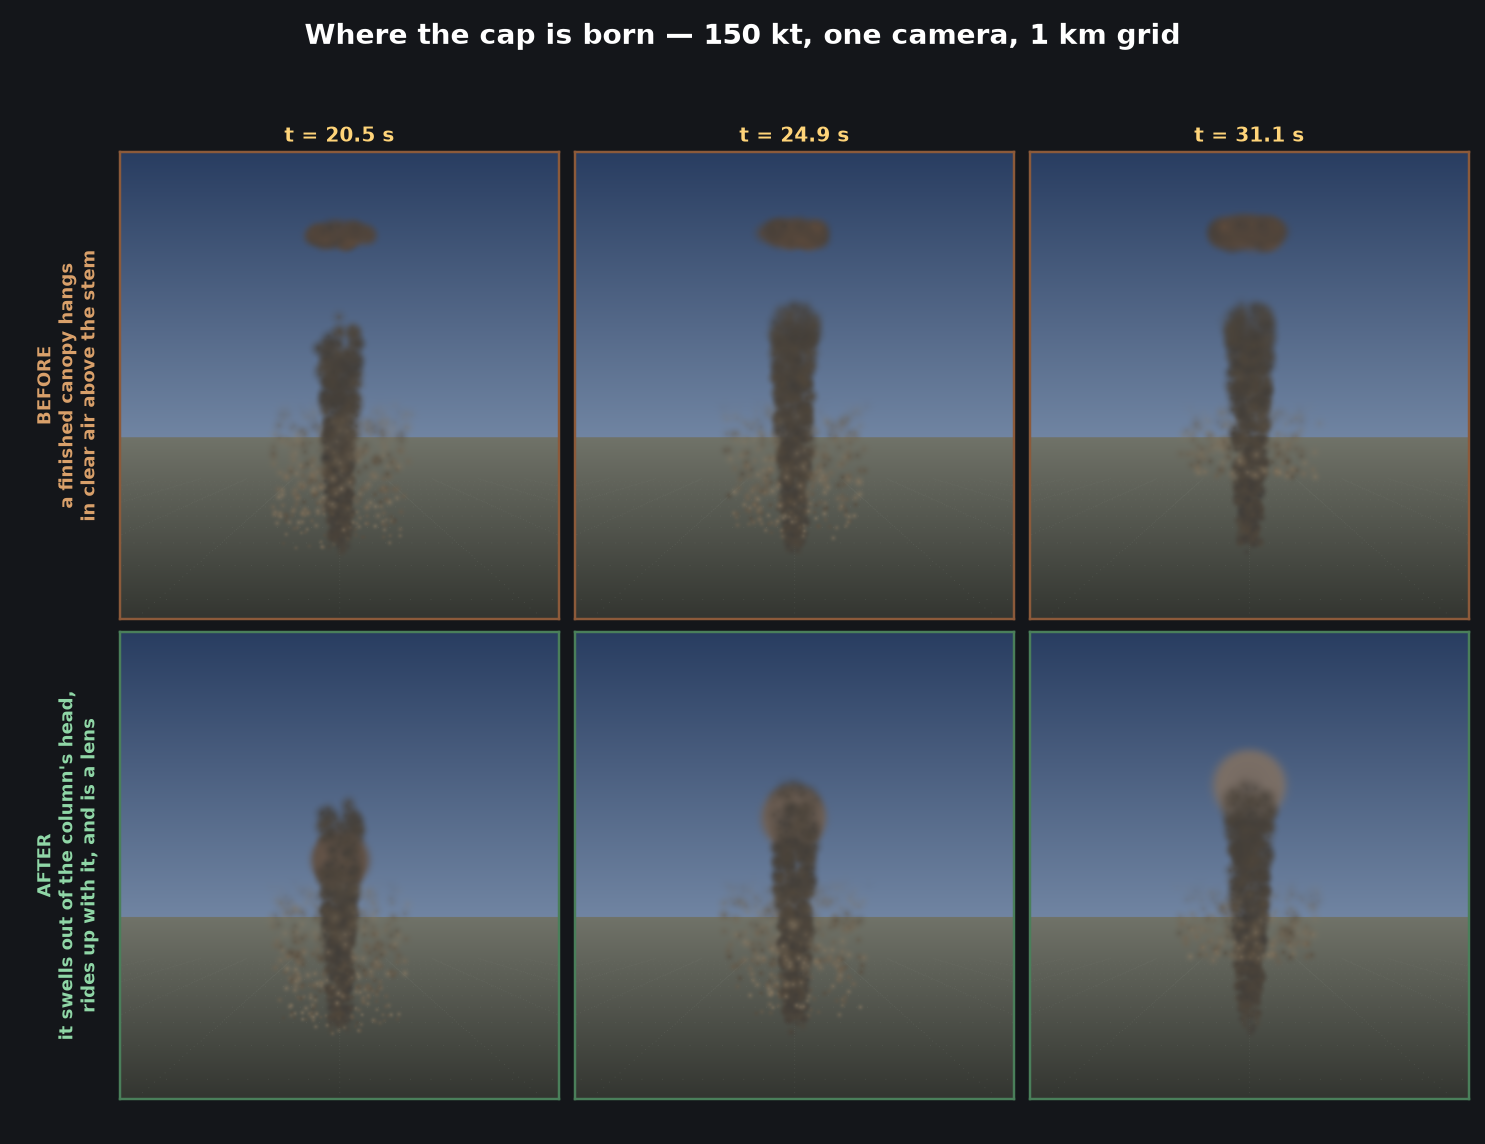
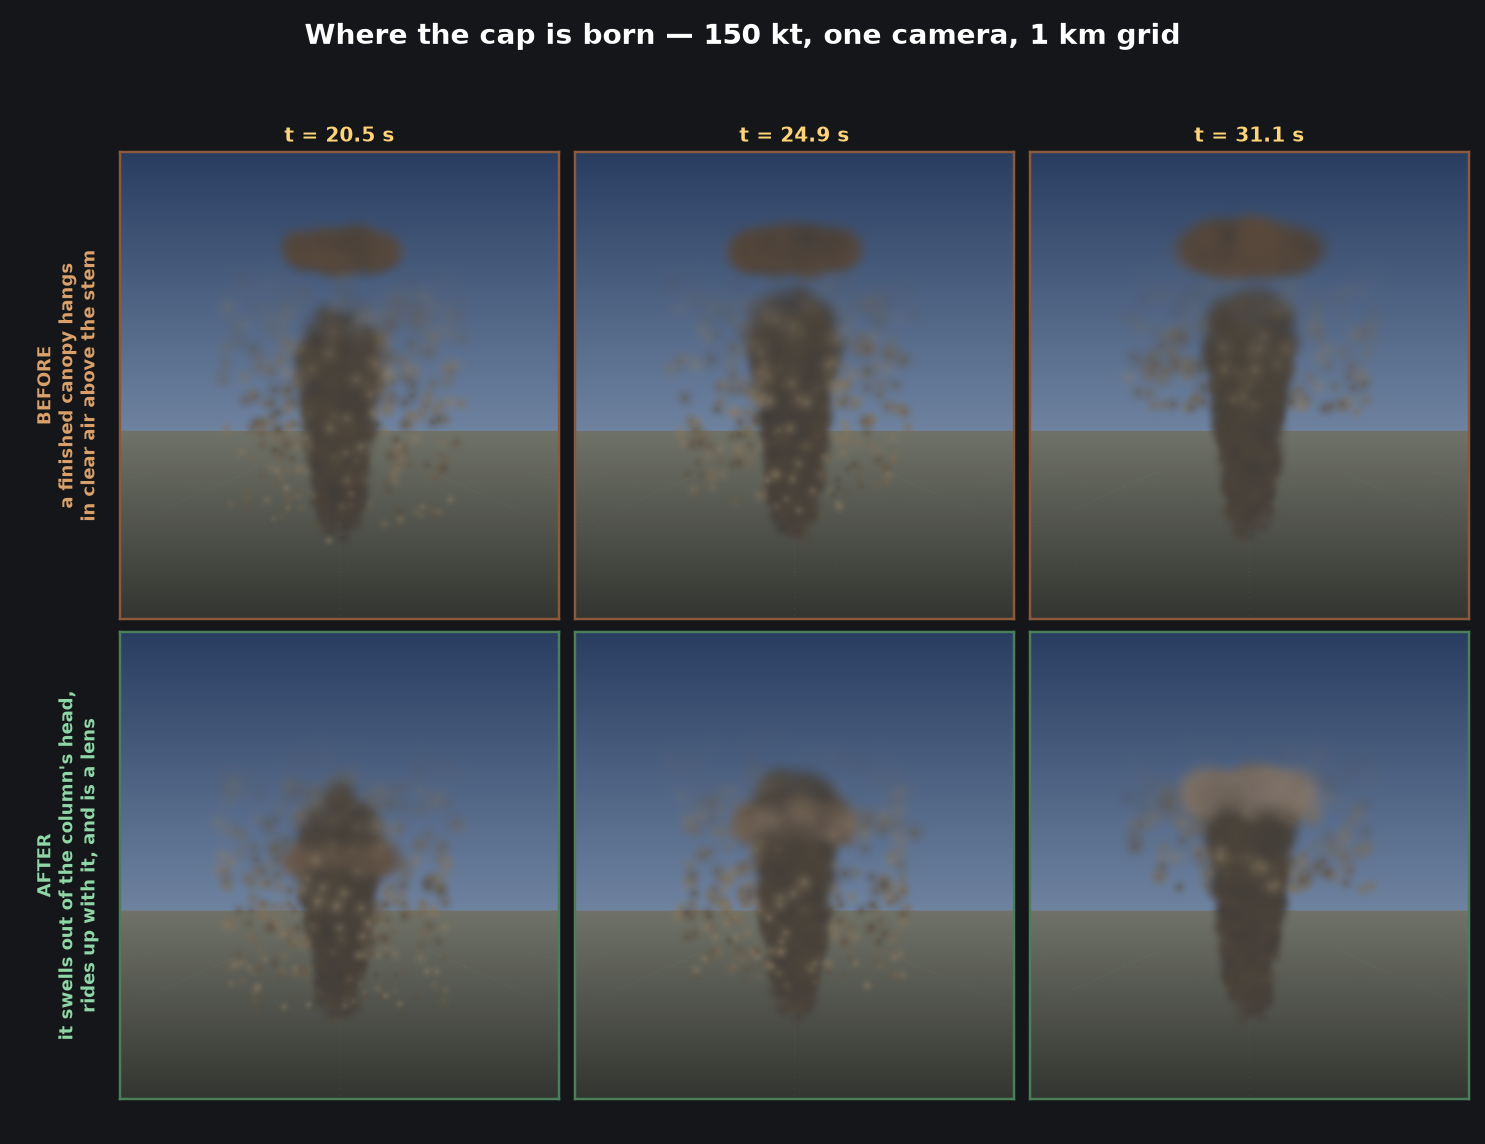
feat: halve the cloud's height
CloudScale brought the whole cloud down together, which kept every proportion
the model was checked against the photographs for - but the figures make a cloud
taller than it is wide at every yield below a megaton, because that is what a
real one is, and height is what runs off the top of a screen. So the height now
takes a second, separate halving: the canopy keeps the width it had and its top
comes down to where the whole mushroom sits comfortably in frame with room over
it. A 150 kt cloud is 1.32 km tall against 1.44 km wide, where it was 2.65 km.

This is the one proportion in the model that is now knowingly wrong rather than
merely bounded, and it is worth being plain about: the canopy's depth is
measured down from the cloud top, so halving the top halves the depth too and
the cap comes out about twice as flat as the real thing. CloudHeightScale = 1
puts it back, at twice the height.

Claude-Session: https://claude.ai/code/session_016wLH3mDvfnwTvpbji9E1o4

Changed region(s): [[0.0929, 0.1836, 0.9912, 0.4589], [0.0929, 0.6425, 0.9912, 0.8566]]

diff --git a/tests/MissileDisaster.Core.Tests/NuclearCloudDisplayTests.cs b/tests/MissileDisaster.Core.Tests/NuclearCloudDisplayTests.cs
@@ -9,6 +9,7 @@ using Xunit;
 public class NuclearCloudDisplayTests
 {
     private const float S = NuclearCloudDisplay.CloudScale;
+    private const float V = NuclearCloudDisplay.CloudScale * NuclearCloudDisplay.CloudHeightScale;
 
     [Fact]
     public void Every_weapon_in_the_catalogue_is_drawn_larger_than_the_one_below_it()
@@ -95,19 +96,24 @@ public class NuclearCloudDisplayTests
         Assert.Equal(small.CloudTop * 0.5f, small.CapBase, 1);
 
         NuclearCloudDimensions big = NuclearCloudDisplay.For(10400f);
-        Assert.Equal(NuclearCloudDisplay.TropopauseAltitude * S, big.CapBase, 1);
+        Assert.Equal(NuclearCloudDisplay.TropopauseAltitude * V, big.CapBase, 1);
         Assert.InRange(big.CapBase / big.CloudTop, 0.40f, 0.50f);
     }
 
     [Fact]
-    public void A_small_canopy_is_a_ball_and_a_strategic_one_is_a_sheet()
+    public void A_small_canopy_is_rounder_than_a_strategic_one()
     {
         // The whole point of taking the depth from where the cloud stopped rising: a fixed
         // fraction made every canopy exactly twice as wide as it was deep, at every yield.
+        // The absolute figures here carry CloudHeightScale, which flattens both of them by the
+        // same factor - a small canopy is a ball at CloudHeightScale = 1 - so what is pinned is
+        // that a 10 Mt cap is several times the flatter of the two.
         NuclearCloudDimensions small = NuclearCloudDisplay.For(15f);
         NuclearCloudDimensions large = NuclearCloudDisplay.For(10400f);
-        Assert.InRange(small.CapRadius * 2f / small.CapDepth, 0.7f, 1.3f);
-        Assert.True(large.CapRadius * 2f / large.CapDepth > 3f,
+        float smallFlatness = small.CapRadius * 2f / small.CapDepth;
+        float largeFlatness = large.CapRadius * 2f / large.CapDepth;
+        Assert.InRange(smallFlatness * NuclearCloudDisplay.CloudHeightScale, 0.7f, 1.3f);
+        Assert.True(largeFlatness > smallFlatness * 3f,
             "a 10 Mt canopy spreads out along the tropopause");
     }
 
@@ -143,8 +149,8 @@ public class NuclearCloudDisplayTests
                 NuclearCloudDisplay.FireballRadiusCeiling * NuclearCloudDisplay.FireballScale);
             Assert.InRange(d.CapRadius, NuclearCloudDisplay.CapRadiusMin * S,
                 NuclearCloudDisplay.CapRadiusCeiling * S);
-            Assert.InRange(d.CloudTop, NuclearCloudDisplay.CloudTopMin * S,
-                NuclearCloudDisplay.CloudTopCeiling * S);
+            Assert.InRange(d.CloudTop, NuclearCloudDisplay.CloudTopMin * V,
+                NuclearCloudDisplay.CloudTopCeiling * V);
             Assert.InRange(d.RiseSeconds, NuclearCloudDisplay.RiseSecondsMin,
                 NuclearCloudDisplay.RiseSecondsCeiling);
             Assert.InRange(d.FireballSeconds, NuclearCloudDisplay.FireballSecondsMin,

diff --git a/src/MissileDisaster/Core/NuclearCloudDisplay.cs b/src/MissileDisaster/Core/NuclearCloudDisplay.cs
@@ -70,6 +70,21 @@ namespace MissileDisaster.Core
         /// </summary>
         public const float FireballScale = 0.50f;
 
+        /// <summary>
+        /// A further squash applied to the cloud's height alone, on top of CloudScale.
+        ///
+        /// Even at a fifth of its real size a cloud is a tall thing - the figures make one taller
+        /// than it is wide at every yield below a megaton, because that is what a real one is -
+        /// and height is what runs off the top of a screen. Halving it leaves the canopy as wide
+        /// as it was and brings its top down to where the whole mushroom is comfortably in frame.
+        ///
+        /// This is the one place where a proportion checked against the photographs is knowingly
+        /// broken: the canopy comes out about twice as flat as the real thing, because its depth
+        /// is measured from the cloud top and the top is what moved. Set it to 1 to have the
+        /// cloud back in proportion, at twice the height.
+        /// </summary>
+        public const float CloudHeightScale = 0.5f;
+
         // The tropopause: the lid the canopy spreads out under, in real metres, before the
         // scale. Through the troposphere the air gets colder with height, so a fireball that
         // cools as it expands stays warmer than what surrounds it and keeps climbing; at the
@@ -138,9 +153,10 @@ namespace MissileDisaster.Core
                 FireballRadiusMin, FireballRadiusKnee, FireballRadiusCeiling) * FireballScale;
             d.FireballSeconds = EffectCeiling.Soft(NuclearCloud.FireballSeconds(kt),
                 FireballSecondsMin, FireballSecondsKnee, FireballSecondsCeiling);
+            float vertical = CloudScale * CloudHeightScale;
             d.CapRadius = capRadius * CloudScale;
-            d.CloudTop = cloudTop * CloudScale;
-            d.CapBase = capBase * CloudScale;
+            d.CloudTop = cloudTop * vertical;
+            d.CapBase = capBase * vertical;
             d.CapDepth = d.CloudTop - d.CapBase;
             d.StemRadius = d.CapRadius * NuclearCloud.StemFraction(kt);
             d.RiseSeconds = EffectCeiling.Soft(NuclearCloud.StabiliseSeconds(kt) / RiseCompression,

diff --git a/tools/effect-preview/fxlib.py b/tools/effect-preview/fxlib.py
@@ -48,6 +48,7 @@ def hard(v, lo, hi): return max(lo, min(hi, v))
 
 CLOUD_SCALE = 0.20      # NuclearCloudDisplay.CloudScale - playability, not physics
 FIREBALL_SCALE = 0.50   # the fireball comes down less far than the cloud around it
+HEIGHT_SCALE = 0.50     # a further squash on the height alone
 TROPOPAUSE = 11000.0    # real metres, before the scale
 NEW = dict(fb=(25.0, 3000.0, 7000.0), fbs=(0.8, 12.0, 20.0), cap=(200.0, 8000.0, 26000.0),
            top=(800.0, 12000.0, 30000.0), rise=(12.0, 40.0, 60.0))
@@ -69,8 +70,8 @@ def dimensions(kt, ceilings="new"):
         base = min(d["top"] * 0.5, TROPOPAUSE)
         d["fireball"] *= FIREBALL_SCALE
         d["cap"] *= CLOUD_SCALE
-        d["top"] *= CLOUD_SCALE
-        d["base"] = base * CLOUD_SCALE
+        d["top"] *= CLOUD_SCALE * HEIGHT_SCALE
+        d["base"] = base * CLOUD_SCALE * HEIGHT_SCALE
     else:
         d = dict(
             fireball=hard(fireball_radius(kt), *OLD["fb"]),

diff --git a/docs/effects/README.md b/docs/effects/README.md
@@ -103,8 +103,9 @@ Sources for the measured figures: [Castle Bravo](https://en.wikipedia.org/wiki/C
 
 The same 150 kt burst at four values of `NuclearCloudDisplay.CloudScale`, from a camera at the
 height and distance the game is actually played at, with a city for a ruler. This is the figure
-to look at when deciding how large clouds should be: at 0.30 and above the canopy runs off the
-top of the screen, at 0.20 the whole mushroom is in frame.
+to look at when deciding how large clouds should be. With `CloudHeightScale` at 0.5 every one of
+the four is in frame, so the choice is about how much of the sky a strike should fill rather
+than about whether it fits.
 
 ## `nineteen-forty-five.png`
 
@@ -139,6 +140,12 @@ ones in the model that are:
   stands 13.2 km, which from a game camera is a column leaving the top of the screen rather than
   a mushroom. It is applied to cap, stem and height together, so every proportion checked
   against the photographs survives it. Raise it for taller clouds; see `cloud-scale.png`.
+- **`CloudHeightScale = 0.50`** — the height alone is halved again on top of that. Even at a
+  fifth of its real size a cloud is a tall thing, because the figures make one taller than it is
+  wide at every yield below a megaton, and height is what runs off the top of a screen. This is
+  the one proportion checked against the photographs that is knowingly broken: the canopy comes
+  out about twice as flat as the real thing, since its depth is measured from the cloud top and
+  the top is what moved. Set it to 1 to have the cloud back in proportion at twice the height.
 - **`FireballScale = 0.50`** — the fireball comes down only half way, so it keeps two and a half
   times its share of a cloud that has been brought down to a fifth. At full size it would be
   nearly as wide as a compressed 50 Mt canopy; in step with the cloud it is a spark. At 0.50 it
